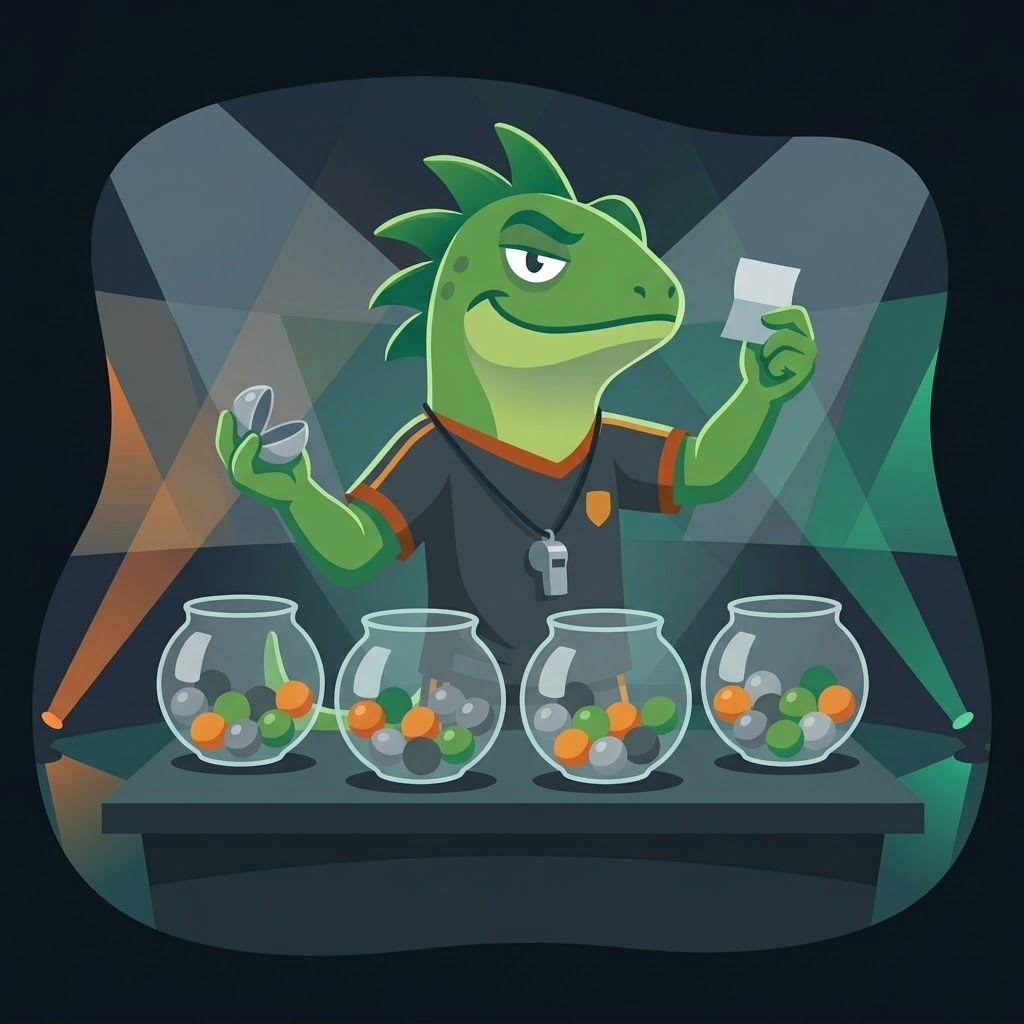
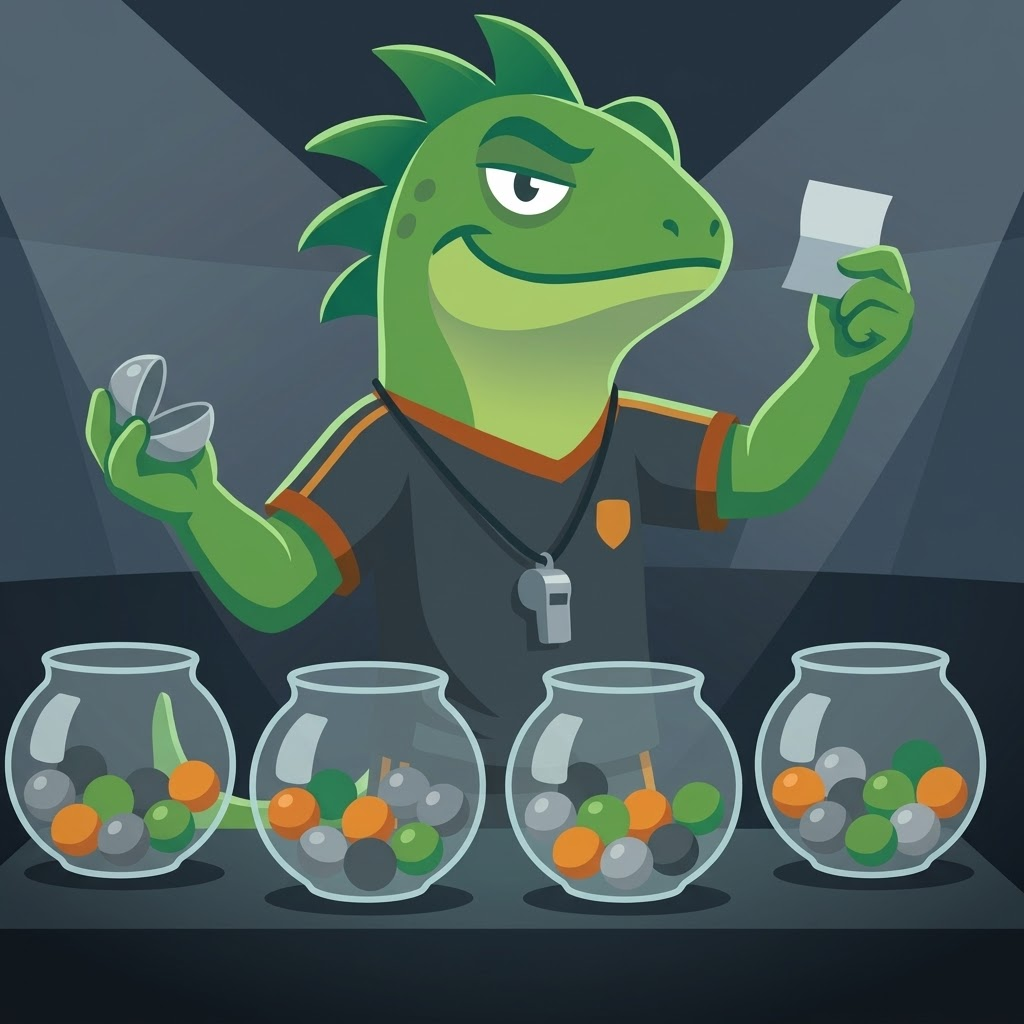
feat: ilustrações de ponta a ponta no topo em Times e Sorteando
Artes novas sem a bolha orgânica: a imagem ocupa o topo do card da
próxima pelada e o topo da tela Sorteando, com degradê embaixo. Remove
as versões antigas recortadas na bolha e atualiza DESIGN e handoff.

diff --git a/src/ui/telas/Times.module.css b/src/ui/telas/Times.module.css
@@ -5,11 +5,18 @@
   border-radius: var(--radius-xl);
   overflow: hidden;
 }
-/* A ilustração já vem recortada na bolha, com fundo transparente: aparece inteira, sem corte (fluxo v2 §6). */
-.ilustracao { padding: var(--space-4) var(--space-4) 0; animation: subir var(--motion-slow) var(--ease-sheet); }
-.ilustracao img { display: block; width: 100%; height: auto; aspect-ratio: 1101 / 792; object-fit: contain; }
+/* Ilustração sem a bolha: ocupa o topo do card de ponta a ponta e some no fundo do card embaixo. */
+.ilustracao { position: relative; animation: subir var(--motion-slow) var(--ease-sheet); }
+.ilustracao img { display: block; width: 100%; height: auto; aspect-ratio: 1200 / 896; object-fit: cover; object-position: top; }
+.ilustracao::after {
+  content: '';
+  position: absolute;
+  inset: 0;
+  background: linear-gradient(to bottom, transparent 60%, var(--surface-1) 100%);
+  pointer-events: none;
+}
 @keyframes subir { from { opacity: 0; transform: translateY(8px); } }
-@media (max-height: 700px) { .ilustracao img { max-height: 220px; } }
+@media (max-height: 700px) { .ilustracao img { max-height: 240px; } }
 
 .conteudo { padding: var(--space-1) 22px 22px; display: flex; flex-direction: column; gap: 6px; }
 .rotulo {

diff --git a/src/ui/telas/fluxo/Sorteando.module.css b/src/ui/telas/fluxo/Sorteando.module.css
@@ -1,5 +1,18 @@
-.tela { justify-content: center; align-items: center; padding-bottom: var(--space-8); }
-.imagem { width: min(70%, 260px); }
+.tela { align-items: center; padding-bottom: var(--space-8); }
+/* Ilustração sem a bolha: ocupa o topo da tela de ponta a ponta e some no fundo embaixo. */
+.ilustracao {
+  position: relative;
+  align-self: stretch;
+  margin: calc(-1 * (env(safe-area-inset-top) + var(--space-4))) calc(-1 * var(--screen-margin)) 0;
+}
+.ilustracao img { display: block; width: 100%; aspect-ratio: 1 / 1; max-height: 45dvh; object-fit: cover; object-position: top; }
+.ilustracao::after {
+  content: '';
+  position: absolute;
+  inset: 0;
+  background: linear-gradient(to bottom, transparent 55%, var(--bg) 100%);
+  pointer-events: none;
+}
 .grade { display: grid; grid-template-columns: 1fr 1fr; gap: var(--space-3); width: 100%; }
 .time {
   background: var(--surface-1);

diff --git a/src/ui/telas/Times.tsx b/src/ui/telas/Times.tsx
@@ -35,7 +35,7 @@ function ProximaPelada({ onSortear }: { onSortear: () => void }) {
       <Header titulo={config.nomePelada} avatar={{ nome: config.nomePelada, src: config.avatarUrl ?? AVATAR_PADRAO }} />
       <section className={s.hero} aria-label="Próxima pelada">
         <div className={s.ilustracao}>
-          <img src="/mascote/proxima-pelada-solta.webp" alt={`Calango, mascote da ${config.nomePelada}, no gramado`} />
+          <img src="/mascote/proxima-pelada-fill.webp" alt={`Calango, mascote da ${config.nomePelada}, no gramado`} />
         </div>
         <div className={s.conteudo}>
           <p className={s.rotulo}>Próxima pelada</p>

diff --git a/src/ui/telas/fluxo/Sorteando.tsx b/src/ui/telas/fluxo/Sorteando.tsx
@@ -12,7 +12,9 @@ export function Sorteando({ times }: { times: Time[] }) {
   let atraso = 0
   return (
     <main className={`${t.tela} ${t.semMenu} ${s.tela}`} aria-live="polite">
-      <img className={s.imagem} src="/mascote/sorteando.webp" alt="Calango sorteando os times" />
+      <div className={s.ilustracao}>
+        <img src="/mascote/sorteando-fill.webp" alt="Calango sorteando os times" />
+      </div>
       <div className={t.centro}>
         <p className={t.destaque}>Sorteando…</p>
         <p className={t.texto2}>Equilibrando os times</p>

diff --git a/src/ui/dev/Vitrine.tsx b/src/ui/dev/Vitrine.tsx
@@ -153,7 +153,7 @@ function Conteudo() {
       <Bloco nome="Card da próxima pelada">
         <Card semPadding>
           <div className={s.ilustracao}>
-            <img src="/mascote/proxima-pelada-solta.webp" alt="Calango, mascote da Pelada dos Brabos, no gramado" />
+            <img src="/mascote/proxima-pelada-fill.webp" alt="Calango, mascote da Pelada dos Brabos, no gramado" />
           </div>
           <div className={s.conteudoCard}>
             <SectionLabel destaque>Próxima pelada</SectionLabel>

diff --git a/docs/HANDOFF-UI.md b/docs/HANDOFF-UI.md
@@ -34,13 +34,13 @@ Menu de baixo flutuante com 3 abas: **Times · Cronômetro · Ajustes**.
 | Tela | O que tem | Funções (ver `docs/para-a-ui.md`) |
 | --- | --- | --- |
 | Login | E-mail + senha (com "Mostrar"), sem link mágico, sem cadastro | `db.auth.signInWithPassword` |
-| Times — antes do sorteio | Cabeçalho com avatar + nome da pelada; card com ilustração inteira (`proxima-pelada-solta.webp`, `contain`, sem corte), "Próxima pelada", data, horário, local, botão "Sortear times"; link "Lista de jogadores" no fim (abre Ajustes → Jogadores) | `peladaAtual`, `lerConfiguracoes` |
+| Times — antes do sorteio | Cabeçalho com avatar + nome da pelada; card com ilustração de ponta a ponta no topo (`proxima-pelada-fill.webp`, sem bolha, degradê embaixo), "Próxima pelada", data, horário, local, botão "Sortear times"; link "Lista de jogadores" no fim (abre Ajustes → Jogadores) | `peladaAtual`, `lerConfiguracoes` |
 | 1/3 Lista de jogadores | **Fluxo v2** (`docs/design/fluxo-sorteio-v2-20-novembro.md` §2). "Selecionar jogadores existentes" no topo, "ou", caixa "Cole sua lista ou digite os nomes", botão "Colar"; contagem em tempo real em verde ("9 jogadores e 1 goleiro encontrados"); aviso de lista de outra data e de nenhum jogador. Aceita qualquer formato; ❌ tira a pessoa | `lerLista`, `contarEncontrados` |
 | 1/3 Quem vai jogar? (selecionar do cadastro) | Busca, jogadores ativos em ordem alfabética com check (todos desmarcados), goleiros em seção própria, "Selecionar todos / Limpar", "Continuar · N" (travado com 0); cadastro vazio leva a Ajustes → Jogadores. Segue para a 2/3 | `listarJogadores`, `confirmacaoDoCadastro` |
 | 2/3 Quem vai pro sorteio? | **Fluxo v2** (`docs/design/fluxo-sorteio-v2-20-novembro.md` §3). Busca + A–Z \| ★; card de contagem; seções Faltam estrelas e Confirmar nome (âmbar, com "Ignorar tudo" e Desfazer), No sorteio, Chegam depois (apagado, sem riscado), Goleiros; estrelas abrem a folha de baixo (`EstrelasSheet`) com "Muda também no cadastro"; sem "Não vem"; rodapé "Novo jogador" + "Confirme N jogadores" / "Continuar com N". Grava tudo em Continuar | `secoes`, `contagem`, `pendencias`, `ignorarTudo`, `textoIgnorarTudo` (`src/logic/quemVai.ts`), `criarJogadores`, `adicionarApelido`, `atualizarJogador`, `salvarPresencasDaLista` |
 | Adicionar jogador (sheet) | Um campo que busca no cadastro; se não achar, "Adicionar 'X' como jogador novo" com estrelas e "É goleiro" | `criarJogador`, `adicionarNaHora` |
 | 3/3 Como vai ser hoje? (Regras) | Caixa "N jogadores no sorteio", linha com relógio "N jogadores ainda não chegaram" quando houver, "N times de 5 e 1 time com M", formato (Quem ganha fica / Estilo campeonato), tempo (8/10 min), botão "Sortear times"; menos de 10 → aviso | `sortearTimes`, `formatoPadrao` |
-| Sorteando… | Ilustração do calango sorteando + chips caindo nos times (~1,9 s, sem interação) | — |
+| Sorteando… | Ilustração do calango sorteando (`sorteando-fill.webp`) de ponta a ponta no topo da tela, com degradê embaixo, + chips caindo nos times (~1,9 s, sem interação) | — |
 | Times — durante a pelada | **v2** (`docs/design/times-durante-v2.md`). Vira a tela inicial depois do sorteio. Cabeçalho só com ⋯; abas dos times com "Copiar times" na mesma linha; aviso "Time 5 está incompleto · 3/5 · Ver" só quando existe; card forte do time (faixa verde); "Sortear de novo" · "Editar times"; "Não chegaram" tracejado e recolhível (abre sozinho com até 3, lembra a escolha por pelada) com "Chegou"; "Adicionar jogador" sempre visível. Toda mudança nos times mostra "Os times mudaram. Copie a lista nova.". Menu ⋯ "Iniciar novo sorteio". Sem link "Lista de jogadores" | `salvarSorteio`, `adicionarAtrasado`, `salvarTimes`, `refazerSorteio`, `montarTextoWhatsApp`, `naoChegaramComecaAberta` |
 | Editar times (tela cheia, v2) | Busca sem acento, equilíbrio, times compactos; folha do jogador: mover (só para time com vaga; nenhum time passa de 5), trocar, tirar do time. Rascunho até o Concluir; ✕ descarta | `src/logic/edicao.ts`, `src/logic/busca.ts`, `marcarPresenca`, `salvarTimes` |
 | Sortear de novo (sheet) | v2: texto que explica, nomes de cada time, desmarcado apagado com "fica igual"; time incompleto sempre marcado; mínimo 2; "Sortear N times de novo" | `refazerSorteio` (desmarcados = travados) |

diff --git a/DESIGN.md b/DESIGN.md
@@ -294,7 +294,7 @@ Medidas para o tamanho padrão. Todo componente interativo tem estados: padrão,
 ### 7.4 Card da próxima pelada
 
 - `--surface-1`, raio `--radius-xl`, borda `--border`.
-- Ilustração `proxima-pelada-solta.webp` (fundo transparente, recortada na bolha) no topo: `aspect-ratio: 1101 / 792`, `object-fit: contain`, padding 16 px nas laterais e no topo, sem fade. A bolha aparece inteira em qualquer largura (`docs/design/fluxo-sorteio-v2-20-novembro.md` §6).
+- Ilustração `proxima-pelada-fill.webp` (cena retangular, sem bolha) no topo do card, de ponta a ponta: `aspect-ratio: 1200 / 896`, `object-fit: cover`, sem padding. Degradê embaixo, de transparente (60%) até `surface-1`, para a imagem sumir no card.
 - Conteúdo com padding 22 px: `label` em `--brand-label` → data em `display-l` → horário e local (`body`, `--text-2`, ícones 18 px) → botão principal "Sortear times".
 
 ### 7.5 Card de time (carrossel)
